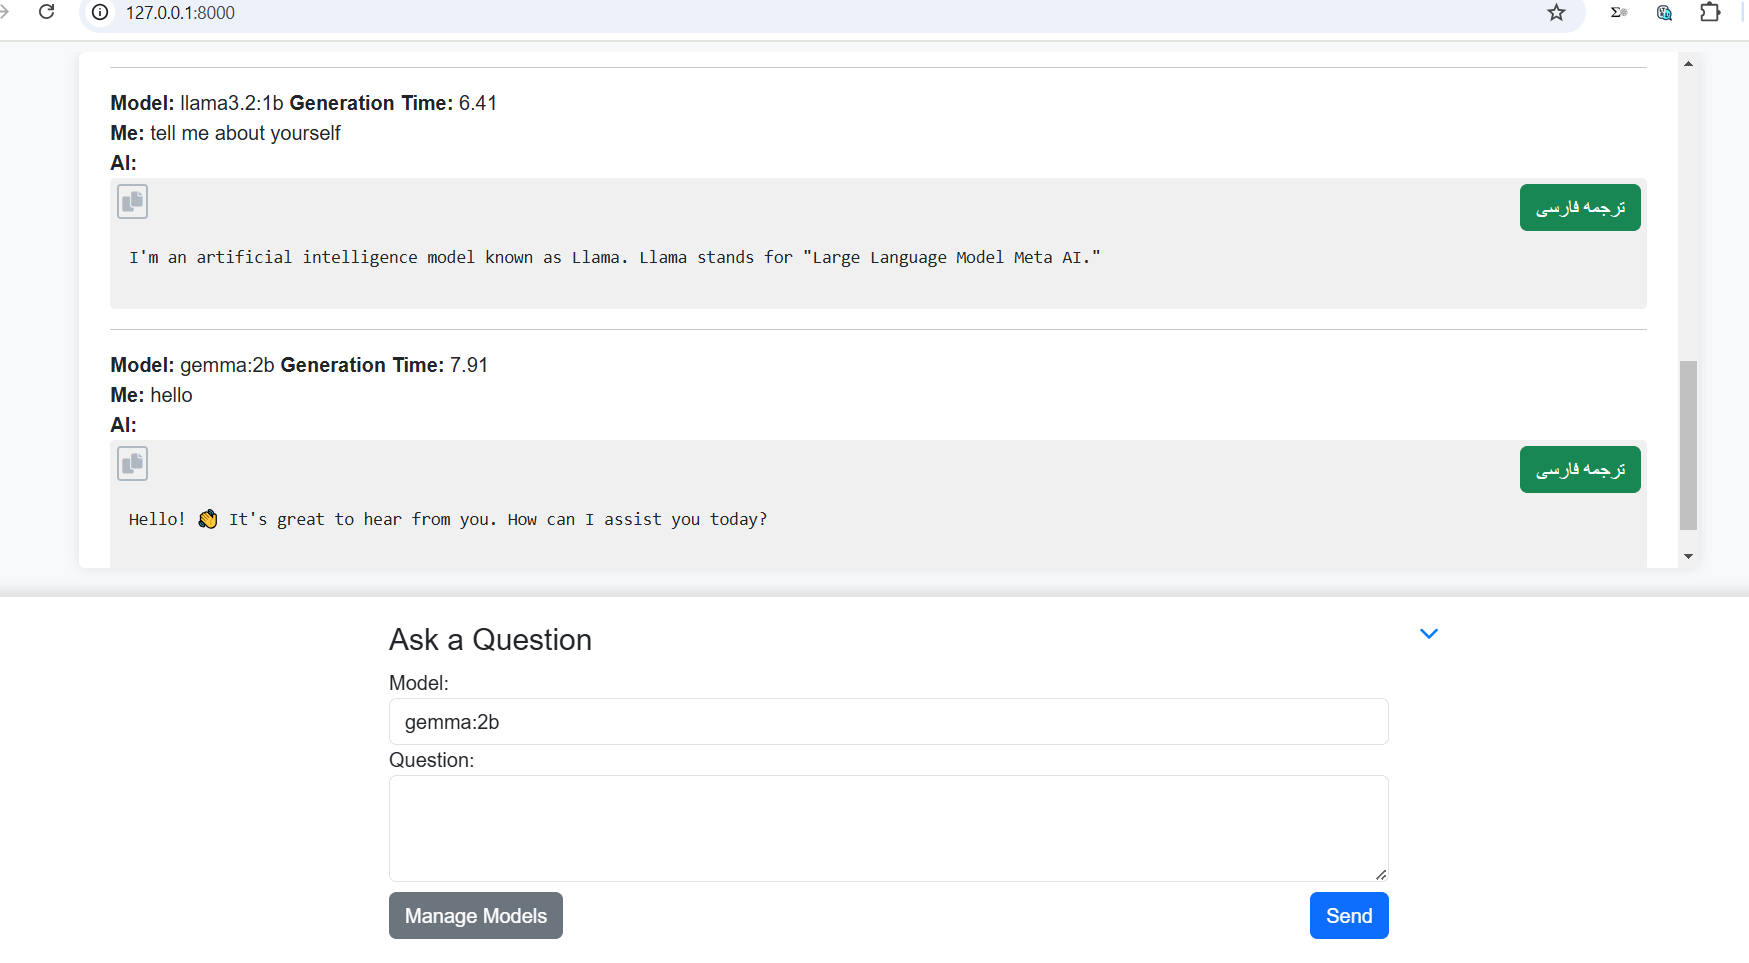
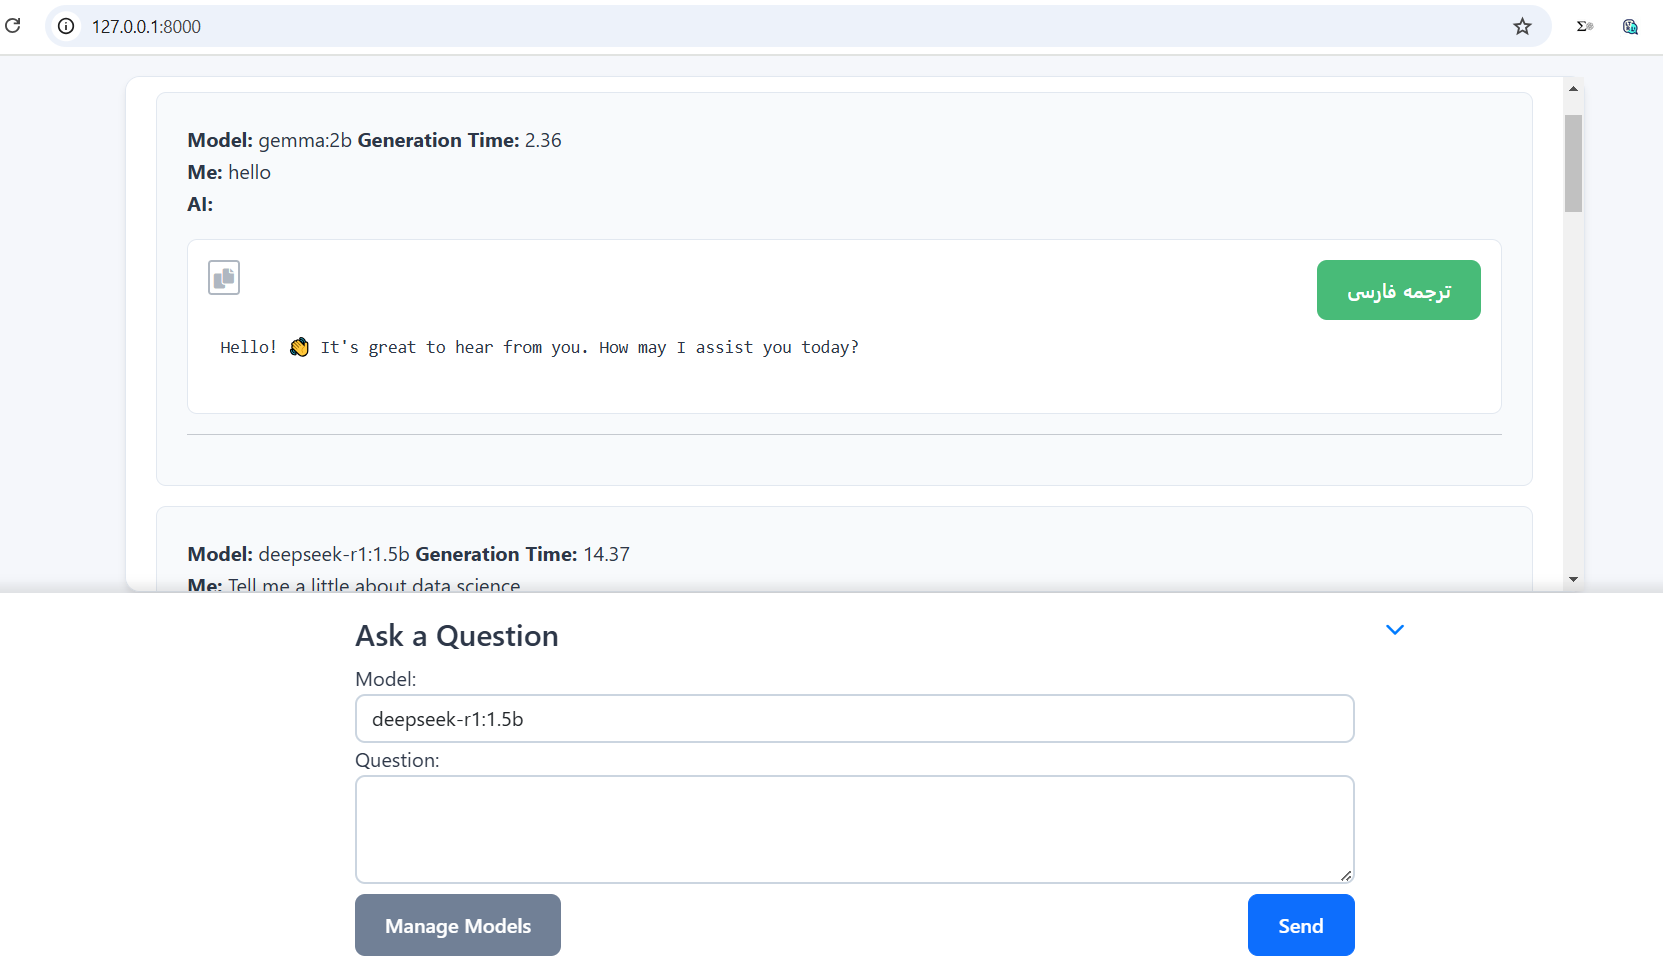
update css file

diff --git a/static/styles/mycss.css b/static/styles/mycss.css
@@ -2,8 +2,6 @@ button, i {
     cursor: pointer;
 }
 body {
-    /* font-family: Arial, sans-serif; */
-    /* background-color: #f8f9fa; */
     display: flex;
     flex-direction: column;
     min-height: 100vh;
@@ -17,7 +15,6 @@ body {
     overflow: hidden;
     display: flex;
     flex-direction: column;
-    /* margin-top: 8px; */
     max-width: 1200px;
     padding: 1rem;
     margin: 0 auto;
@@ -25,12 +22,8 @@ body {
 .box_answer {
     flex: 1;
     overflow-y: auto;
-    /* padding: 5px 25px; */
-    /* background-color: #fff; */
-    /* border-radius: 5px; */
     box-shadow: 0 0 10px rgba(0, 0, 0, 0.1);
     max-height: 56vh;
-    /* transition: max-height 0.3s ease; */
     background: #ffffff;
     border-radius: 12px;
     box-shadow: 0 4px 6px -1px rgba(0, 0, 0, 0.1);
@@ -65,7 +58,6 @@ body {
 .form-control {
     border: 2px solid #cbd5e0;
     border-radius: 8px;
-    /* padding: 0.75rem 1rem; */
     transition: border-color 0.2sease;
 }
 ._label {
@@ -77,9 +69,6 @@ body {
 }
 .box-pre{
     position: relative;
-    /* background: #f0f0f0; */
-    /* padding: 5px; */
-    /* border-radius: 4px; */
     background: #ffffff;
     border-radius: 8px;
     padding: 1rem;
@@ -149,9 +138,6 @@ think {
 /* Style for the model management section */
 #modelManagement {
     margin-top: 20px;
-    /* padding: 15px; */
-    /* background-color: #e9ecef; */
-    /* border-radius: 5px; */
     background: #ffffff;
     border-radius: 12px;
     padding: 2rem;
@@ -169,13 +155,6 @@ think {
     margin-bottom: 10px;
 }
 .nameModel {
-    /* display: inline-block; */
-    /* border: 1px solid #ced4da; */
-    /* border-radius: 3px; */
-    /* background-color: #fff; */
-    /* padding: 2px 5px; */
-    /* margin-bottom: 4px; */
-    /* margin-right: 6px; */
     background: #edf2f7;
     border-radius: 6px;
     padding: 0.5rem 1rem;
@@ -184,12 +163,7 @@ think {
     align-items: center;
     gap: 0.5rem;
 }
-/* #modelList span .deleteModel {
-        color: red;
-        cursor: pointer;
-        border: none;
-        margin-left: 5px;
-} */
+
 .deleteModel {
     color: #e53e3e !important;
     transition: color 0.2sease;
@@ -227,14 +201,12 @@ think {
 #modelTranslateContainer{
 }
 #modelTrans{
-    /* height:98%; */
-    /* padding:15px; */
-    /* background-color: #292626; */
     background: #2d3748;
     border-radius: 12px;
     padding: 2rem;
     width: 90%;
-    max-width: 800px;
+    max-width: 1200px;
+    margin-top: 5px;
     max-height: 90vh;
     display: flex;
     flex-direction: column;
@@ -246,10 +218,7 @@ think {
 }
 .text_trans{
     width: 100%;
-    /* margin: 10px auto; */
     min-height: 500px;
-    /* background-color: #fff; */
-    /* border-radius: 4px; */
     padding: 8px 12px;
     text-align: justify;
     font-weight: bold;
@@ -292,16 +261,13 @@ think {
 }
 
 /* Hover Effects */
-/* .btn-copy:hover, .btn-trans-copy:hover{
-    color: #8a9099;
-    border-color:#8a9099;
-} */
 .btn-copy:hover, .btn-trans-copy:hover {
     transform: scale(1.05);
     box-shadow: 0 2px 4px rgba(0, 0, 0, 0.1);
 }
 
-.btn-copy:active, .btn-trans-copy:visited{
+.fa-check{
     color: green;
     border-color:green;
+    font-weight: bold;
 }
